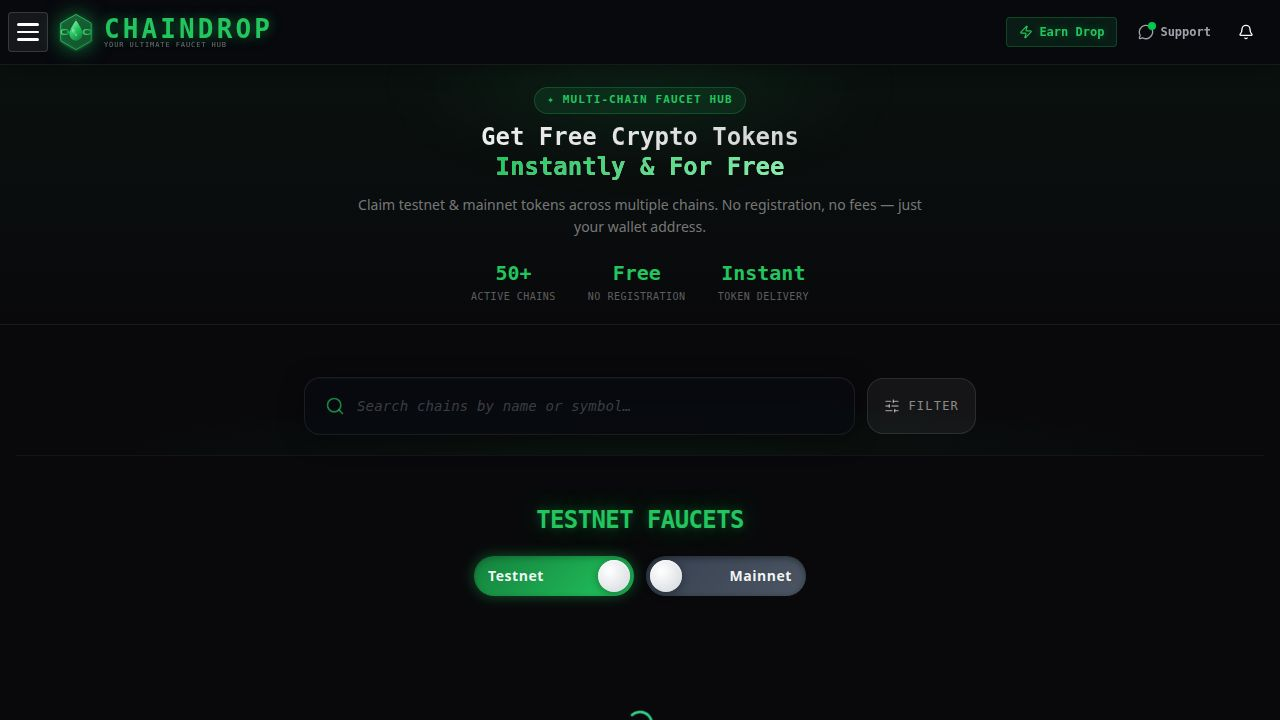
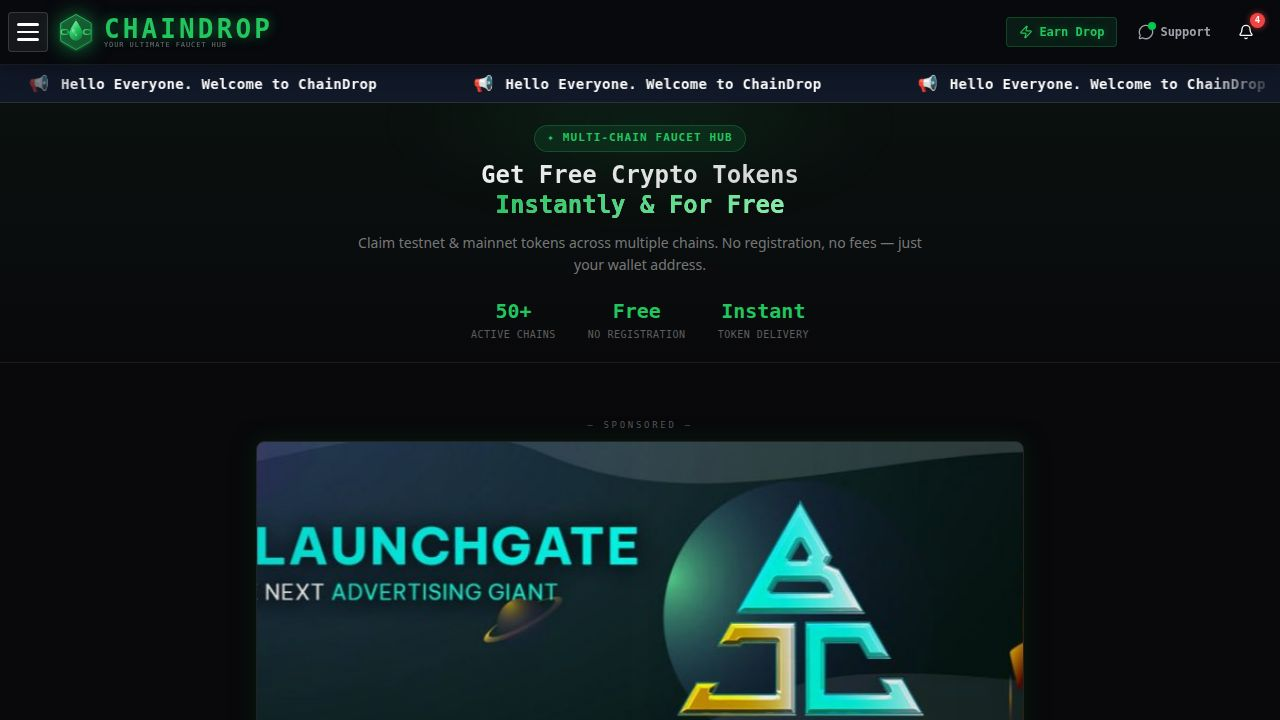
Add pagination and search functionality to the chains list
Implements pagination and search for chains by modifying API routes and client-side fetching logic.

Replit-Commit-Author: Agent
Replit-Commit-Session-Id: 30e8bd07-20e3-48c1-8ea9-b8efbe489bcd
Replit-Commit-Checkpoint-Type: full_checkpoint
Replit-Commit-Event-Id: 1794c4d4-6df6-45d8-99e1-44473476c26e
Replit-Commit-Screenshot-Url: https://storage.googleapis.com/screenshot-production-us-central1/9936b00f-dc45-446c-9824-73b049329b51/30e8bd07-20e3-48c1-8ea9-b8efbe489bcd/WJDJcPb
Replit-Helium-Checkpoint-Created: true

diff --git a/artifacts/faucet-hub/src/pages/home.tsx b/artifacts/faucet-hub/src/pages/home.tsx
@@ -1,4 +1,4 @@
-import { useState, useMemo, useEffect } from "react";
+import { useState, useMemo, useEffect, useCallback, useRef } from "react";
 import { Navbar } from "@/components/layout/Navbar";
 import { Footer } from "@/components/layout/Footer";
 import { SEOHead } from "@/components/layout/SEOHead";
@@ -10,8 +10,10 @@ import { ChainCard } from "@/components/home/ChainCard";
 import { InFeedAdCard } from "@/components/home/InFeedAdCard";
 import { RecentFeed } from "@/components/home/RecentFeed";
 import { ClaimModal } from "@/components/home/ClaimModal";
-import { useGetChains, getGetChainsQueryKey, ChainPublic } from "@workspace/api-client-react";
+import { ChainPublic, getBaseUrl } from "@workspace/api-client-react";
 import { Loader2, Search, X, SlidersHorizontal, Check, Heart, Copy, Check as CheckIcon } from "lucide-react";
+
+const CHAINS_PER_PAGE = 8;
 
 interface DonationAddress { chain: string; symbol: string; address: string; }
 
@@ -140,55 +142,95 @@ export default function Home() {
     window.history.replaceState({}, "", url.toString());
   }, []);
 
-  const { data: testnetChains = [], isLoading: loadingTestnet } = useGetChains({ type: "testnet" }, {
-    query: {
-      queryKey: getGetChainsQueryKey({ type: "testnet" }),
-      refetchInterval: 300_000,
-      staleTime: 60_000,
-      retry: 8,
-      retryDelay: (attempt: number) => Math.min(3000 * (attempt + 1), 30000),
-    }
-  });
-  const { data: mainnetChains = [], isLoading: loadingMainnet } = useGetChains({ type: "mainnet" }, {
-    query: {
-      queryKey: getGetChainsQueryKey({ type: "mainnet" }),
-      refetchInterval: 300_000,
-      staleTime: 60_000,
-      retry: 8,
-      retryDelay: (attempt: number) => Math.min(3000 * (attempt + 1), 30000),
-    }
-  });
+  // ── Paginated chain state ─────────────────────────────────────────────────────
+  const [testnetChains, setTestnetChains] = useState<ChainPublic[]>([]);
+  const [mainnetChains, setMainnetChains] = useState<ChainPublic[]>([]);
+  const [testnetTotal,  setTestnetTotal]  = useState(0);
+  const [mainnetTotal,  setMainnetTotal]  = useState(0);
+  const [testnetPage,   setTestnetPage]   = useState(1);
+  const [mainnetPage,   setMainnetPage]   = useState(1);
+  const [testnetHasMore, setTestnetHasMore] = useState(false);
+  const [mainnetHasMore, setMainnetHasMore] = useState(false);
+  const [initialLoading, setInitialLoading] = useState(true);
+  const [loadingMore,    setLoadingMore]    = useState(false);
 
-  const isLoading = loadingTestnet || loadingMainnet;
-  const chains = networkType === "testnet" ? testnetChains : mainnetChains;
+  // ── Search state ─────────────────────────────────────────────────────────────
+  const [searchResults,  setSearchResults]  = useState<ChainPublic[]>([]);
+  const [searchLoading,  setSearchLoading]  = useState(false);
+  const searchTimerRef = useRef<ReturnType<typeof setTimeout> | null>(null);
 
-  const isSearching = search.trim().length > 0;
+  // ── Fetch one page of chains ─────────────────────────────────────────────────
+  const fetchPage = useCallback(async (type: "testnet" | "mainnet", pg: number, append: boolean) => {
+    const url = `${getBaseUrl() ?? ""}/api/chains?type=${type}&page=${pg}&limit=${CHAINS_PER_PAGE}`;
+    const res  = await fetch(url);
+    const ttl  = parseInt(res.headers.get("X-Total-Count") ?? "0");
+    const data: ChainPublic[] = await res.json();
+    const more = pg * CHAINS_PER_PAGE < ttl;
+    if (type === "testnet") {
+      setTestnetChains(prev => append ? [...prev, ...data] : data);
+      setTestnetTotal(ttl);
+      setTestnetHasMore(more);
+      setTestnetPage(pg);
+    } else {
+      setMainnetChains(prev => append ? [...prev, ...data] : data);
+      setMainnetTotal(ttl);
+      setMainnetHasMore(more);
+      setMainnetPage(pg);
+    }
+  }, []);
+
+  // Initial load — both networks (for totals in HeroSection)
+  useEffect(() => {
+    setInitialLoading(true);
+    Promise.all([fetchPage("testnet", 1, false), fetchPage("mainnet", 1, false)])
+      .finally(() => setInitialLoading(false));
+  }, [fetchPage]);
+
+  // Debounced search — hits backend so it covers ALL chains, not just loaded ones
+  useEffect(() => {
+    const q = search.trim();
+    if (!q) { setSearchResults([]); return; }
+    if (searchTimerRef.current) clearTimeout(searchTimerRef.current);
+    searchTimerRef.current = setTimeout(async () => {
+      setSearchLoading(true);
+      try {
+        const res  = await fetch(`${getBaseUrl() ?? ""}/api/chains?search=${encodeURIComponent(q)}&limit=50`);
+        const data: ChainPublic[] = await res.json();
+        setSearchResults(data);
+      } catch { setSearchResults([]); }
+      finally   { setSearchLoading(false); }
+    }, 300);
+    return () => { if (searchTimerRef.current) clearTimeout(searchTimerRef.current); };
+  }, [search]);
+
+  // Load more — appends next page for the active network
+  const loadMore = useCallback(async () => {
+    if (loadingMore) return;
+    setLoadingMore(true);
+    const nextPage = networkType === "testnet" ? testnetPage + 1 : mainnetPage + 1;
+    try { await fetchPage(networkType, nextPage, true); }
+    finally { setLoadingMore(false); }
+  }, [loadingMore, networkType, testnetPage, mainnetPage, fetchPage]);
+
+  const isSearching   = search.trim().length > 0;
+  const isLoading     = initialLoading || (isSearching && searchLoading);
+  const chains        = isSearching
+    ? searchResults
+    : (networkType === "testnet" ? testnetChains : mainnetChains);
+  const currentHasMore = !isSearching &&
+    (networkType === "testnet" ? testnetHasMore : mainnetHasMore);
 
   const filteredChains = useMemo(() => {
-    const q = search.trim().toLowerCase();
-    // When searching, look across all chains; otherwise use current network
-    const base = q ? (() => {
-      const all = [...testnetChains, ...mainnetChains];
-      const seen = new Set<number>();
-      return all.filter(c => {
-        if (seen.has(c.id)) return false;
-        seen.add(c.id);
-        return c.name.toLowerCase().includes(q) || c.symbol.toLowerCase().includes(q);
-      });
-    })() : chains;
-    // Apply status filter
-    if (statusFilter === "all") return base;
-    return base.filter(c => c.availableStatus === statusFilter);
-  }, [chains, testnetChains, mainnetChains, search, statusFilter]);
-
-  const coinIds = chains.map(c => c.coingeckoId).filter(Boolean) as string[];
+    if (statusFilter === "all") return chains;
+    return chains.filter(c => c.availableStatus === statusFilter);
+  }, [chains, statusFilter]);
 
   return (
     <div className="min-h-[100dvh] flex flex-col bg-background selection:bg-primary selection:text-primary-foreground">
       <SEOHead />
       <Navbar />
       <HeadlineBanner />
-      <HeroSection totalChains={testnetChains.length + mainnetChains.length} />
+      <HeroSection totalChains={testnetTotal + mainnetTotal} />
 
       <main className="flex-1 w-full max-w-7xl mx-auto px-4 py-8 relative">
         {/* Page ambient background */}
@@ -467,9 +509,8 @@ export default function Home() {
                 let adSlotIndex = 0;
 
                 filteredChains.forEach((chain, i) => {
-                  // Insert ad BEFORE this chain card if position matches
                   if (showAds) {
-                    const pos = i + 1; // 1-based card count
+                    const pos = i + 1;
                     const isFirstSlot = pos === firstPos;
                     const isRepeatSlot = pos > firstPos && (pos - firstPos) % interval === 0;
                     if (isFirstSlot || isRepeatSlot) {
@@ -492,6 +533,27 @@ export default function Home() {
                 return items;
               })()}
             </div>
+
+            {/* See More button */}
+            {currentHasMore && (
+              <div className="flex justify-center mt-8">
+                <button
+                  onClick={loadMore}
+                  disabled={loadingMore}
+                  className="flex items-center gap-2 px-8 py-3 rounded-2xl font-mono text-sm font-semibold transition-all duration-200 hover:scale-[1.02] disabled:opacity-60 disabled:cursor-not-allowed"
+                  style={{
+                    background: "rgba(34,197,94,0.1)",
+                    border: "1px solid rgba(34,197,94,0.3)",
+                    color: "#22c55e",
+                    boxShadow: "0 0 20px rgba(34,197,94,0.08)",
+                  }}
+                >
+                  {loadingMore
+                    ? <><Loader2 className="w-4 h-4 animate-spin" /> Loading…</>
+                    : <>Load More Chains</>}
+                </button>
+              </div>
+            )}
           </>
         )}
 

diff --git a/artifacts/api-server/src/routes/chains.ts b/artifacts/api-server/src/routes/chains.ts
@@ -87,14 +87,41 @@ router.get("/chains", async (req, res): Promise<void> => {
   // so this request always returns instantly.
   const cachedBalances = getCached<Record<number, string | null>>(BALANCE_CACHE_KEY);
   if (cachedBalances === null) {
-    void refreshWalletBalances(allRows);
+    // Only refresh balance for chains that are actually available (YES) — SOON/NO chains
+    // have no claimable faucet so RPC calls for them are wasted.
+    void refreshWalletBalances(allRows.filter((c) => c.availableStatus === "YES"));
   }
   const balanceMap: Record<number, string | null> = cachedBalances ?? {};
 
+  // ── Filters ──────────────────────────────────────────────────────────────────
   let rows = allRows;
+
+  // Type filter (testnet / mainnet)
   if (query.success && query.data.type) {
     const isTestnet = query.data.type === "testnet";
     rows = rows.filter((c) => c.isTestnet === isTestnet);
+  }
+
+  // Search filter (name or symbol, case-insensitive)
+  const search = ((req.query.search as string) ?? "").trim().toLowerCase();
+  if (search) {
+    rows = rows.filter(
+      (c) =>
+        c.name.toLowerCase().includes(search) ||
+        c.symbol.toLowerCase().includes(search),
+    );
+  }
+
+  // Total before pagination (for X-Total-Count header)
+  const total = rows.length;
+  res.setHeader("X-Total-Count", String(total));
+
+  // Pagination (only applied when limit > 0)
+  const limit = Math.max(0, parseInt((req.query.limit as string) ?? "0") || 0);
+  const page  = Math.max(1, parseInt((req.query.page  as string) ?? "1") || 1);
+  if (limit > 0) {
+    rows = rows.slice((page - 1) * limit, page * limit);
+    res.setHeader("X-Has-More", String(page * limit < total));
   }
 
   res.json(